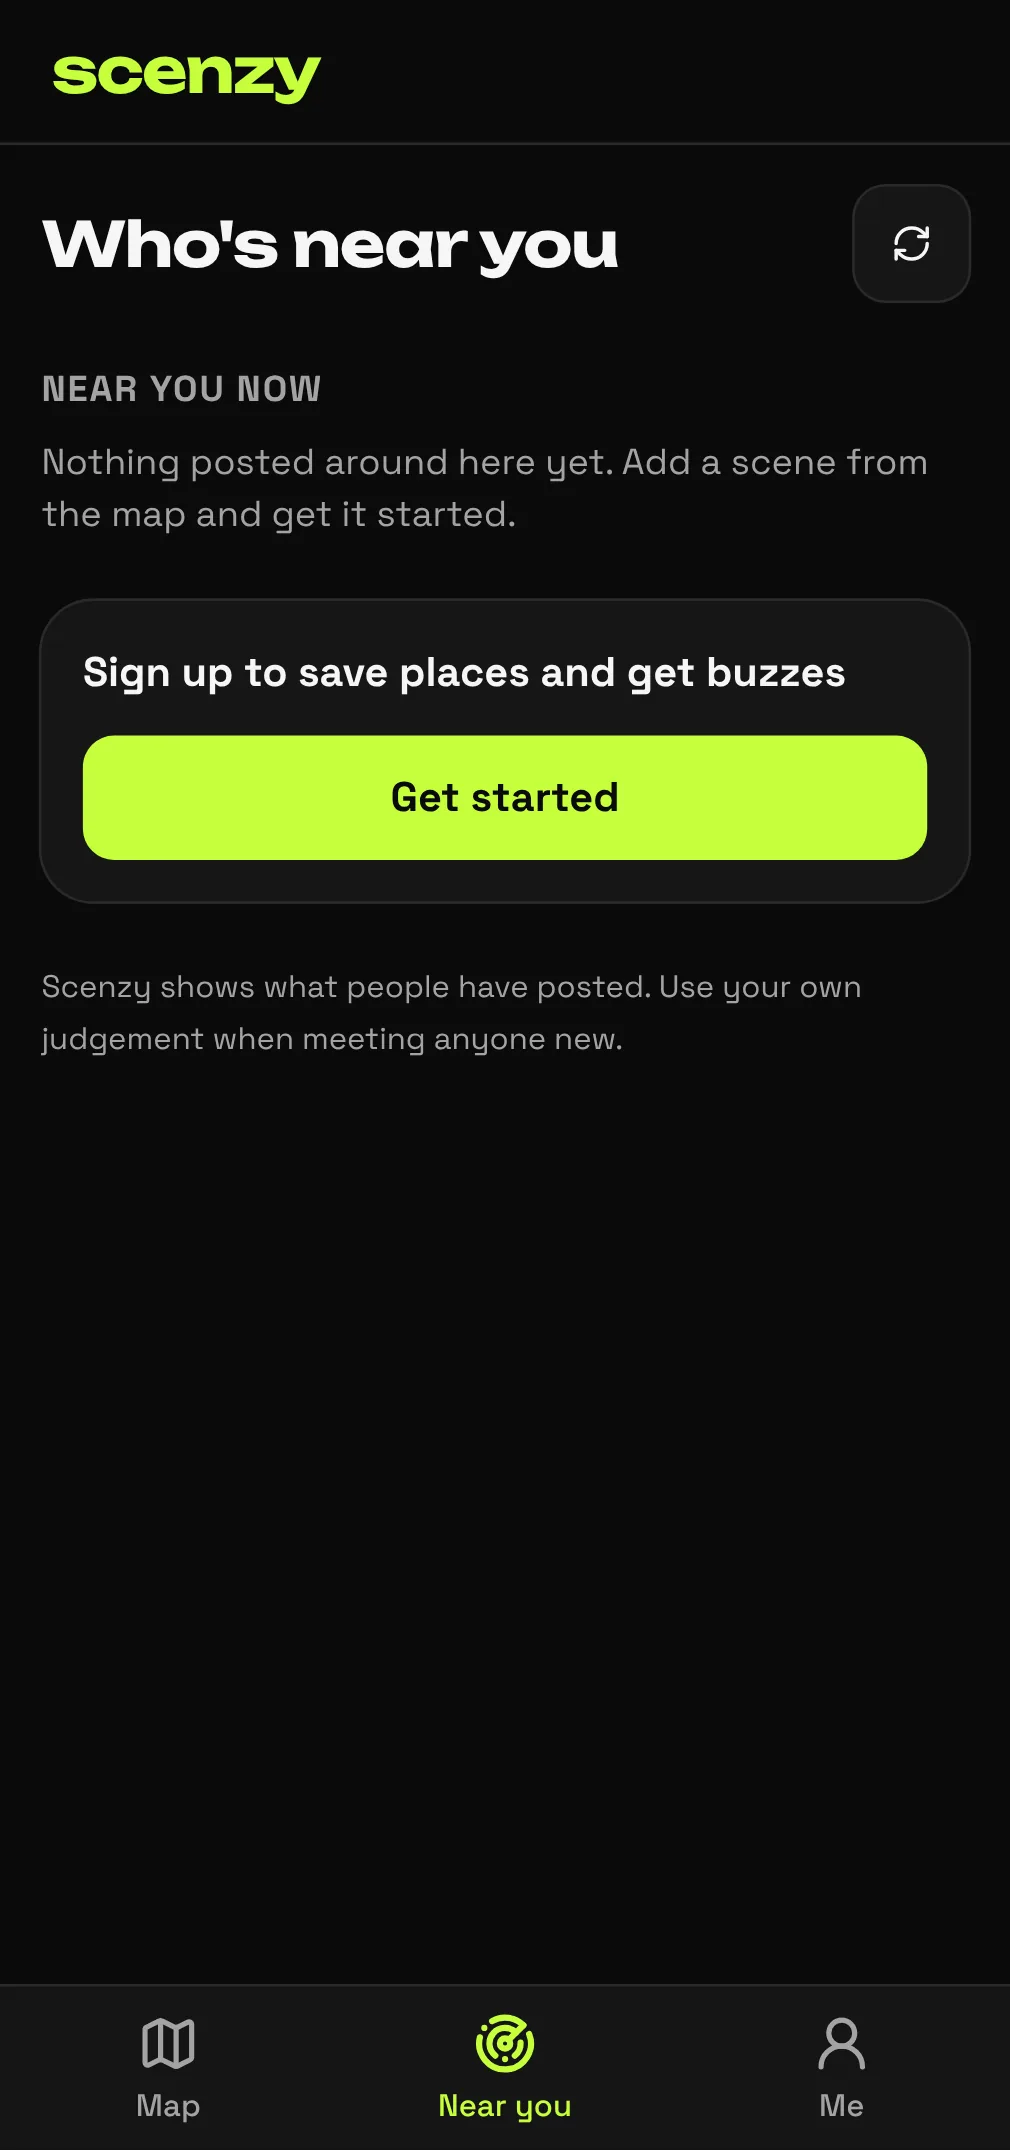
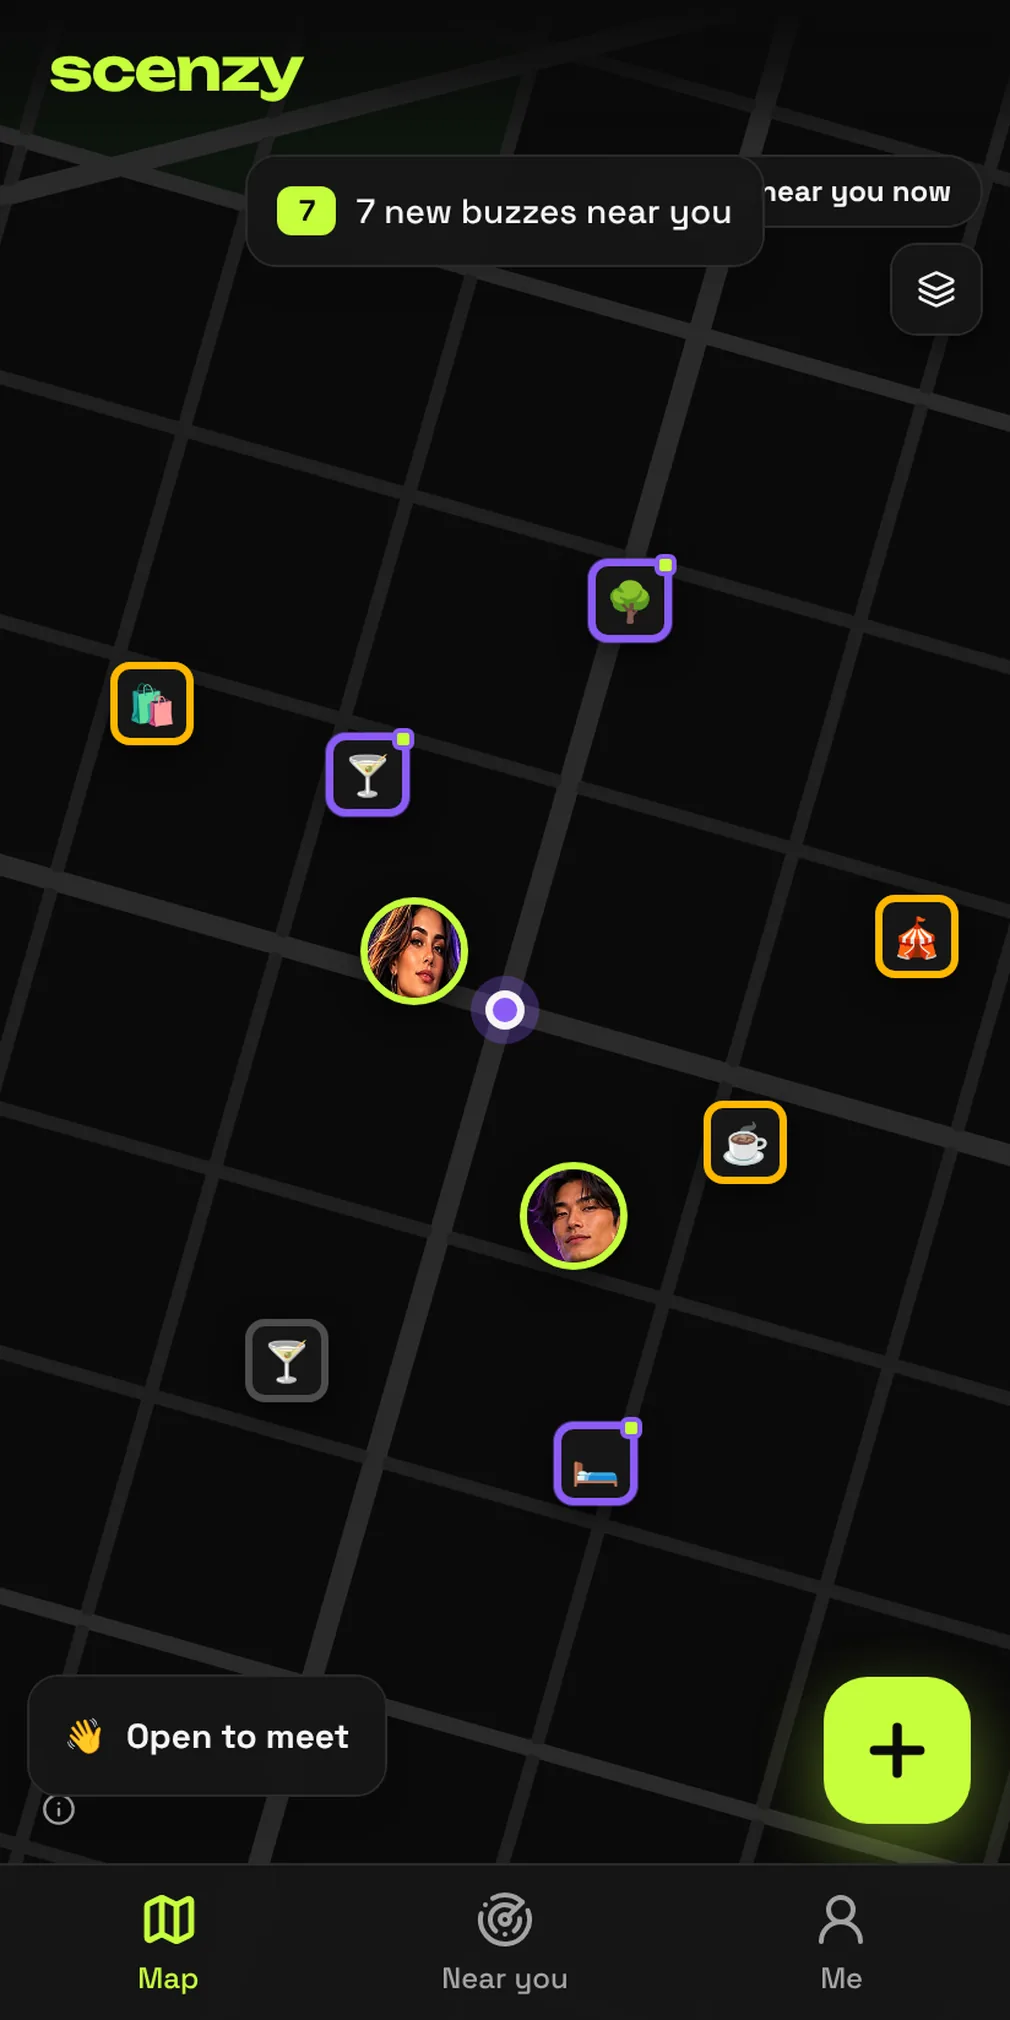
Real Scenzy and MyWall screens; MyWall no longer reuses Daywall images
- Scenzy card: carousel of 5 live screens (was a logo splash)
- MyWall card: its own 4 screens (was Daywall's)
- 3D phone: Scenzy map replaces the empty signed-out slide; MyWall slide replaced

Claude-Session: https://claude.ai/code/session_01EmAAZgNedhqBZ4ZbL8QEw7

diff --git a/index.html b/index.html
@@ -222,7 +222,7 @@ footer a:hover{color:#fff}
     <p class="sec-sub">Each one runs in your browser. Add it to your home screen to keep it like a regular app.</p>
     <div class="grid">
 <article class="app" style="--accent:#c6ff3d">
-  <div class="stage"><div data-show aria-label="Scenzy"><div class="phone" style="--pw:11rem"><div class="bezel"><div class="screen"><div class="track"><div class="splash" style="--accent:#c6ff3d"><img src="img/apps/scenzy.webp" alt="" width="64" height="64"><strong>Scenzy</strong><span>See where it's happening</span></div></div></div></div></div></div></div>
+  <div class="stage"><div data-show aria-roledescription="carousel" aria-label="Scenzy screens"><div class="phone" style="--pw:11rem"><div class="bezel"><div class="screen"><div class="track"><img src="screens/scenzy-1.webp" alt="Scenzy live map with scenes and people open to meet" width="476" height="952" loading="lazy" draggable="false"><img src="screens/scenzy-2.webp" alt="A scene card with Still on and Gone buttons" width="476" height="952" loading="lazy" draggable="false"><img src="screens/scenzy-3.webp" alt="An open-to-meet card with signals to send" width="476" height="952" loading="lazy" draggable="false"><img src="screens/scenzy-4.webp" alt="Add a scene in a few taps" width="476" height="952" loading="lazy" draggable="false"><img src="screens/scenzy-5.webp" alt="Who is near you, newest scenes first" width="476" height="952" loading="lazy" draggable="false"></div></div></div></div><div class="dots"></div></div></div>
   <div class="body">
     <div class="app-top"><img src="img/apps/scenzy.webp" alt="" width="48" height="48"><div><h3>Scenzy</h3><p class="kind">Social · Local scenes</p></div></div>
     <p class="desc">See where it's happening. Spot a scene, share it, and see what others nearby are seeing. Built for singles and travellers.</p>
@@ -230,7 +230,7 @@ footer a:hover{color:#fff}
   </div>
 </article>
 <article class="app" style="--accent:#a78bfa">
-  <div class="stage"><div data-show aria-roledescription="carousel" aria-label="MyWall screens"><div class="phone" style="--pw:11rem"><div class="bezel"><div class="screen"><div class="track"><img src="screens/daywall-2.webp" alt="MyWall private wall" width="476" height="952" loading="lazy" draggable="false"><img src="screens/daywall-1.webp" alt="A moment on the wall" width="476" height="952" loading="lazy" draggable="false"></div></div></div></div><div class="dots"></div></div></div>
+  <div class="stage"><div data-show aria-roledescription="carousel" aria-label="MyWall screens"><div class="phone" style="--pw:11rem"><div class="bezel"><div class="screen"><div class="track"><img src="screens/mywall-1.webp" alt="MyWall feed in dark mode with a photo post" width="476" height="952" loading="lazy" draggable="false"><img src="screens/mywall-2.webp" alt="A weekend to-do list on the wall" width="476" height="952" loading="lazy" draggable="false"><img src="screens/mywall-3.webp" alt="A night-out photo post on the wall" width="476" height="952" loading="lazy" draggable="false"><img src="screens/mywall-4.webp" alt="MyWall in light mode" width="476" height="952" loading="lazy" draggable="false"></div></div></div></div><div class="dots"></div></div></div>
   <div class="body">
     <div class="app-top"><img src="img/apps/mywall.webp" alt="" width="48" height="48"><div><h3>MyWall</h3><p class="kind">Social · Private wall</p></div></div>
     <p class="desc">Your private social wall. Share moments, plans and daily wins on a feed that is yours alone. Everything stays on your device.</p>
